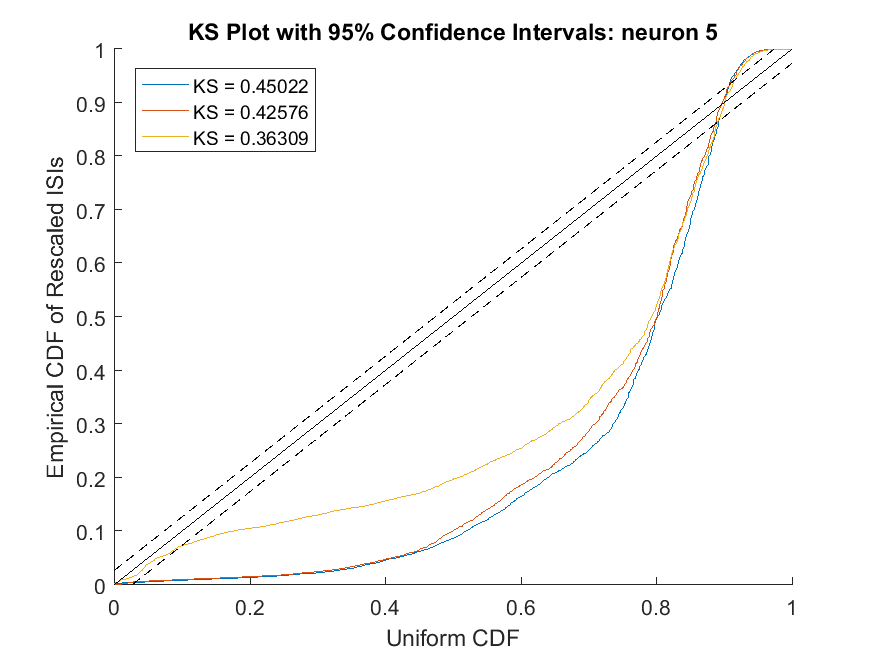
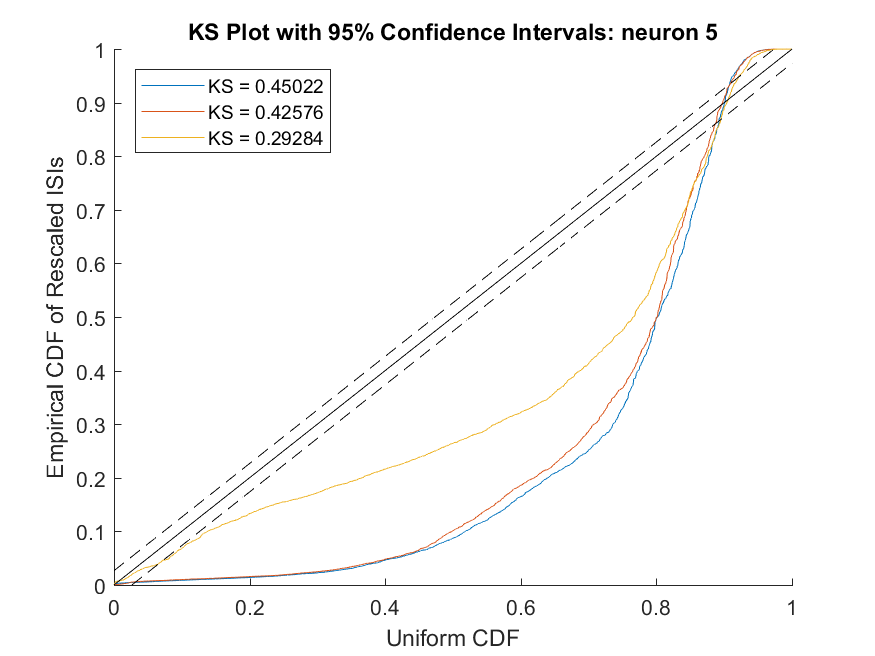
run history dependence test for problematic neurons
Former-commit-id: 42558ad94f2c234bf79030fb12ff042b052b69f3

diff --git a/encoding.m b/encoding.m
@@ -18,6 +18,9 @@ load('train.mat')
 %%%% notes %%%%
 % more variables could be useful but also means more to present
 
+formatOut = 'yymmdd';
+date = datestr(now,formatOut);
+
 %% plotting raw data
 % plot spike times as a function of location
 plot_spiking_positions(xN,yN,XLocAtSpikes,YLocAtSpikes,'subplot');
@@ -55,7 +58,9 @@ clear spikess
 clear lambdaEst
 
 h = waitbar(0,'Please wait...');
-for i=[3]  % iterate through all the neurons
+neurons = [3 5 6 7 8 9 10];
+
+for i=neurons  % iterate through all the neurons
     
     disp(['Working on neuron ' num2str(i) ' ...'])
     spikes = spikes_binned(:,i);
@@ -87,8 +92,8 @@ for i=[3]  % iterate through all the neurons
 %     spikess{4} = spikes_ds;    
     
     % Model 3: linear + quadratic + integrate + history dependence
-    hist = 1:2;
-    [spikes_m3,covar_m3] = hist_dep(hist,spikes,xN,yN,sin(xN),sin(yN));
+    hist = 3:303;
+    [spikes_m3,covar_m3] = hist_dep(hist,spikes,xN,yN,xN.^2,yN.^2,xN.*yN);
     [b3,dev3,stats3] = glmfit(covar_m3,spikes_m3,'poisson');
     lambdaEst{3} = gen_lambda(b3,covar_m3);
     spikess{3} = spikes_m3;
@@ -125,16 +130,16 @@ for i=[3]  % iterate through all the neurons
     xticks(1:length(b3));
     xlim([0 length(b3)+1]);
     xlabel('\beta number'); ylabel('\beta value');
-    saveas(gcf, ['30nov-betas-neuron_' num2str(i) '.png'])
-    save(['30nov-glm_out-neuron_' num2str(i) '.mat'],'b3','dev3','stats3')
+    saveas(gcf, [date '-betas-neuron_' num2str(i) '.png'])
+    save([date '-glm_out-neuron_' num2str(i) '.mat'],'b3','dev3','stats3')
     
     % plot KS plots for all three models
     plot_ks(spikess,lambdaEst);
     cur_title = get(gca, 'Title');
     title([cur_title.String ': neuron ' num2str(i)]);
-    saveas(gcf, ['KS-neuron_' num2str(i) '.png'])
+    saveas(gcf, [date '-KS-neuron_' num2str(i) '.png'])
     
-    waitbar(i/size(spikes_binned,2),h);
+    waitbar(i/size(neurons,2),h);
 end
 
 %%%% notes %%%%

diff --git a/analyse_glmout.m b/analyse_glmout.m
@@ -1,18 +1,30 @@
 %% load data
 clr;
 
-load('glm_out-neuron_1.mat');
+load('glm_out-neuron_3.mat');
 
-%% plot betas and p-values
+%% plot betas
 figure(1); clf; hold on;
+set(gcf,'units','points','position',[100,100,1000,400])
+subplot(1,2,1);
 errorbar(b3,2*stats3.se);
 xticks(1:length(b3));
 xlim([0 length(b3)+1]);
 xlabel('\beta number'); ylabel('\beta value');
+subplot(1,2,2);
+plot(b3);
+xlabel('\beta number'); ylabel('\beta value');
 
+%% plot p-values
 figure(2); clf; hold on;
+set(gcf,'units','points','position',[100,100,1000,400])
+subplot(1,2,1); hold on;
 plot(stats3.p)
-ylim([0 0.05])
+% ylim([0 0.05])
+ylabel('p-values'); xlabel('covariate number');
+subplot(1,2,2); hold on;
+plot(stats3.p(stats3.p<0.05), 'r.')
+ylabel('p-values'); xlabel('covariate number');
 
 %%  find stretches of significant covariates
 figure(3); clf; hold on;
@@ -21,7 +33,7 @@ h = histogram(L,n);
 xlabel('Stretch number'); ylabel('Length of stretch');
 
 len = sort(h.Values);
-longest = len(end-2);
+longest = len(end-1);
 
 ylim([0 longest])
 
